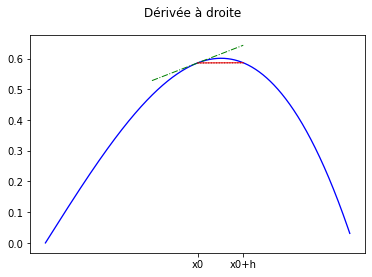
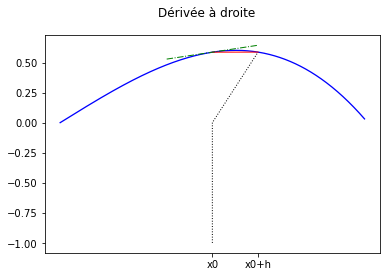
Mise à jour du site

diff --git a/derivation_integration.html b/derivation_integration.html
@@ -332,8 +332,8 @@
 <div class="cell tag_remove-input tag_remove-output docutils container">
 </div>
 <div class="tabbed-set docutils">
-<input checked="checked" id="6062000a-c312-41ec-8eef-14c53738225d" name="e30509b1-d305-4a2c-9740-fc5961a96f11" type="radio">
-</input><label class="tabbed-label" for="6062000a-c312-41ec-8eef-14c53738225d">
+<input checked="checked" id="3a12b3a4-6dbb-4caf-bb83-5677f49e98b7" name="6f12248c-fcf1-4799-80f7-c8093dea51a2" type="radio">
+</input><label class="tabbed-label" for="3a12b3a4-6dbb-4caf-bb83-5677f49e98b7">
 Dérivée à droite</label><div class="tabbed-content docutils">
 <div class="math notranslate nohighlight">
 \[ f'(x_0) \approx \frac{f(x_0 + h) - f(x_0)}{h}\]</div>
@@ -343,8 +343,8 @@ Dérivée à droite</label><div class="tabbed-content docutils">
 </div>
 </div>
 </div>
-<input id="dfad8751-fb6e-46f9-a8d2-6fc16dcdc6b4" name="e30509b1-d305-4a2c-9740-fc5961a96f11" type="radio">
-</input><label class="tabbed-label" for="dfad8751-fb6e-46f9-a8d2-6fc16dcdc6b4">
+<input id="44cc2624-a895-463c-bc9f-e66ed00f270f" name="6f12248c-fcf1-4799-80f7-c8093dea51a2" type="radio">
+</input><label class="tabbed-label" for="44cc2624-a895-463c-bc9f-e66ed00f270f">
 Dérivée à gauche</label><div class="tabbed-content docutils">
 <div class="math notranslate nohighlight">
 \[ f'(x_0) \approx \frac{f(x_0) - f(x_0 - h)}{h}\]</div>
@@ -354,8 +354,8 @@ Dérivée à gauche</label><div class="tabbed-content docutils">
 </div>
 </div>
 </div>
-<input id="58cd66c1-0cc2-403e-bb8f-94b5460ca26d" name="e30509b1-d305-4a2c-9740-fc5961a96f11" type="radio">
-</input><label class="tabbed-label" for="58cd66c1-0cc2-403e-bb8f-94b5460ca26d">
+<input id="e74c9968-232b-4d22-b3c5-2aa51f9228c1" name="6f12248c-fcf1-4799-80f7-c8093dea51a2" type="radio">
+</input><label class="tabbed-label" for="e74c9968-232b-4d22-b3c5-2aa51f9228c1">
 Dérivée centrée</label><div class="tabbed-content docutils">
 <div class="math notranslate nohighlight">
 \[ f'(x_0) \approx \frac{f(x_0 + h) - f(x_0 - h)}{2h}\]</div>

diff --git a/_sources/derivation_integration.md b/_sources/derivation_integration.md
@@ -53,18 +53,18 @@ Kg = 2 - Kd
 xd = np.array([np.pi / 4, np.pi / 4 * Kd])
 xd2 = np.array([np.pi / 4, np.pi / 4, np.pi / 4 * Kd, np.pi / 4 * Kd])
 yd = f1(xd)
-yd2 = f1(xd2)
+yd2 = np.insert(np.insert(yd, 0, 0), 0, -1)
 
 xg = np.array([np.pi / 4 * Kg, np.pi / 4])
 xg2 = np.array([np.pi / 4 * Kg, np.pi / 4 * Kg, np.pi / 4, np.pi / 4])
 yg = f1(xg)
-yg2 = f1(xg2)
+yg2 = np.insert(np.insert(yg, 0, 0), 0, -1)
 
 xc = np.array([np.pi / 4 * Kg, np.pi / 4 * Kd])
 xc2 = np.array([np.pi / 4 * Kg, np.pi / 4 * Kg, np.pi / 4 * Kd, np.pi / 4 * Kd])
 xc3 = [np.pi / 4 * Kg, np.pi / 4, np.pi / 4 * Kd]
 yc = f1(xc)
-yc2 = f1(xc2)
+yc2 = np.insert(np.insert(yc, 0, 0), 0, -1)
 dyd = df1(xc)
 
 f, ax = plt.subplots()
@@ -82,6 +82,7 @@ f.suptitle("Dérivée à gauche")
 ax.plot(x, y, linewidth=1.3, color="blue")
 ax.plot(xg2, yg2, linestyle=':', linewidth=1, color="black")
 ax.plot(xg, yg, linewidth=1, color="red", label="Dérivée numérique")
+ax.plot(xc, dyd, linewidth=1, linestyle='-.', color="green", label="Dérivée réelle")
 ax.set_xticks(xg)
 ax.set_xticklabels(["x0-h", "x0"])
 glue("deriv_g", f, display="False")
@@ -91,6 +92,7 @@ f.suptitle("Dérivée centrée")
 ax.plot(x, y, linewidth=1.3, color="blue")
 ax.plot(xc2, yc2, linestyle=':', linewidth=1, color="black")
 ax.plot(xc,yc, linewidth=1, color="red", label="Dérivée numérique")
+ax.plot(xc, dyd, linewidth=1, linestyle='-.', color="green", label="Dérivée réelle")
 ax.set_xticks(xc3)
 ax.set_xticklabels(["x0-h", "x0", "x0+h"])
 glue("deriv_c", f, display="False")
